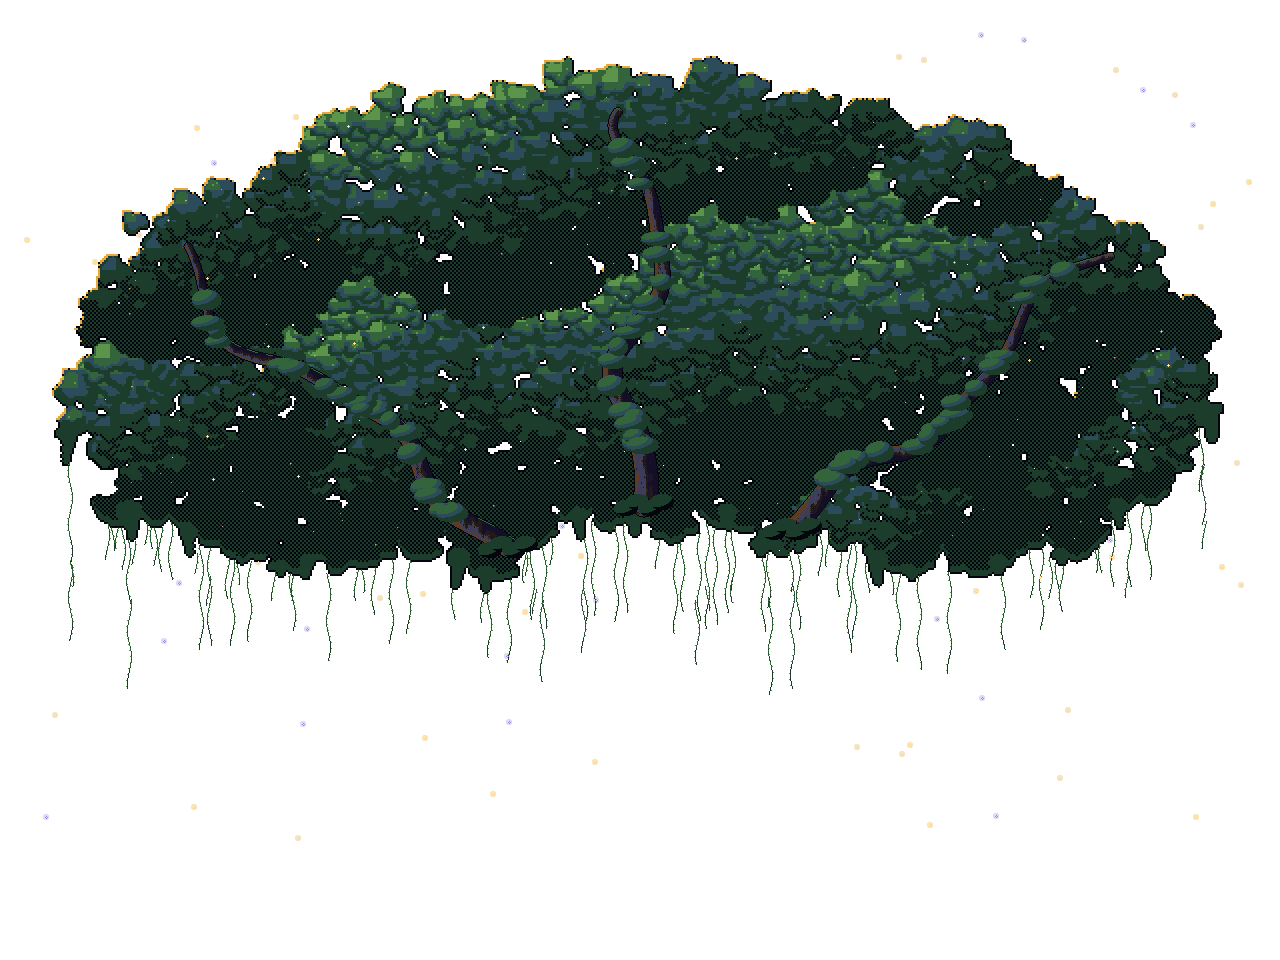
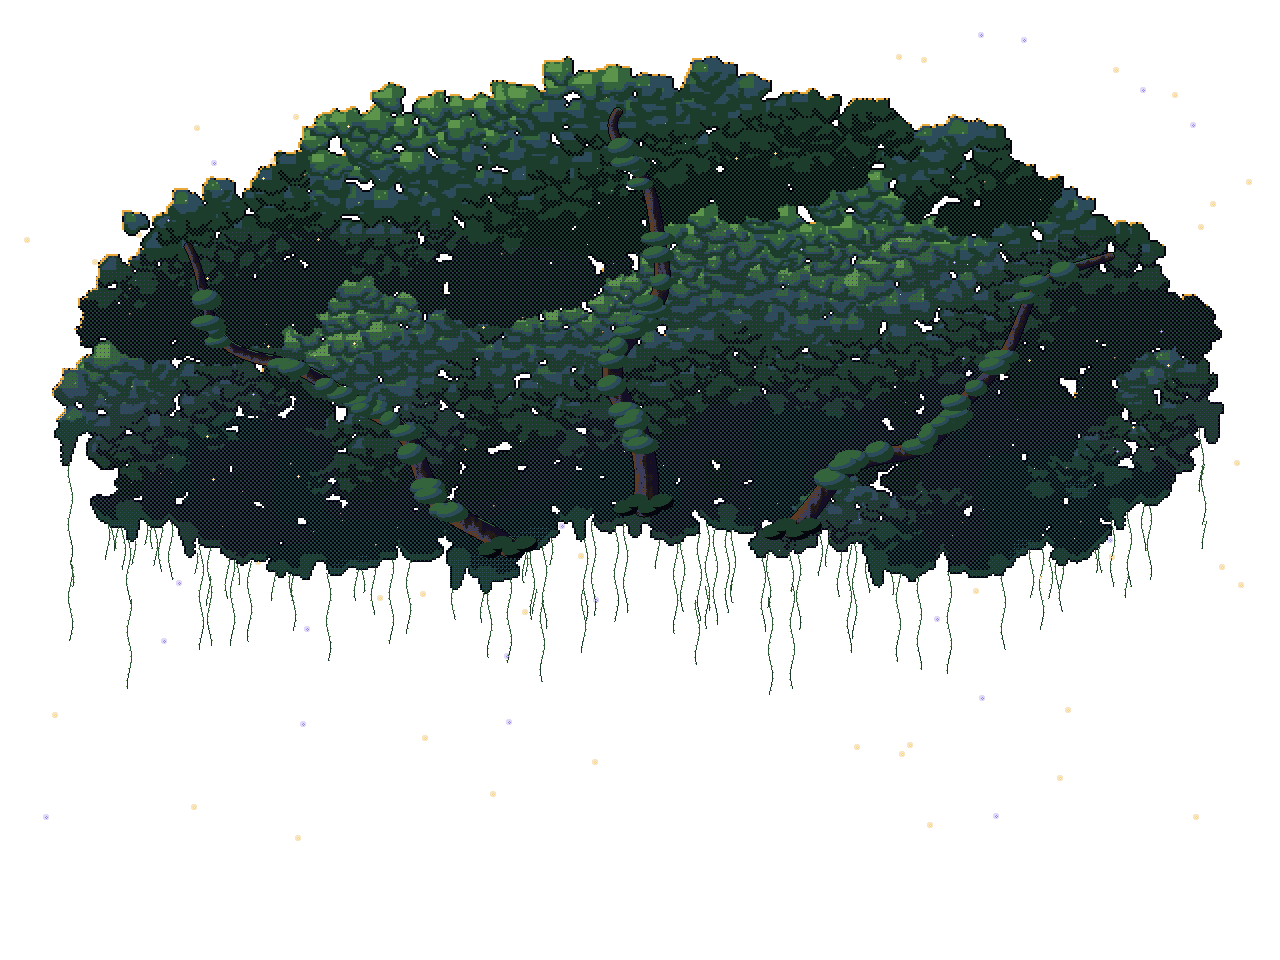
Memory Grove: a cool mist veil over the Heartwood
Sparse dithered Pool / Dusk over the crown (faint at the top) and the trunk (fading out before the roots and waystones; the Hollow kept clear), so the tree takes the fog's cool tone without going white.

diff --git a/Project_T/tools/meta_art/grove_gen.html b/Project_T/tools/meta_art/grove_gen.html
@@ -730,6 +730,12 @@ function groveTree() {
     if (n > .6) out.set(x, y, n > .72 ? HW.Moss : HW.Deepmoss);
     else if (n > .57 && hash(x, y, 97) < .5) out.set(x, y, HW.Leaf);
   }
+  // A cool veil of mist over the wood (the fog's teal and dusk, never white), thicker low down.
+  for (let y = 520; y < GH; y++) for (let x = 0; x < GW; x++) {
+    if (!out.alpha(x, y) || (x > 570 && x < 655 && y > 745 && y < 830)) continue;
+    const d = clamp((y - 520) / 300, 0, 1) * clamp((900 - y) / 60, 0, 1) * (.55 + pnoise(x, y, 50, 101) * .6);  // fades out before the roots and waystones
+    if (bay(x, y) < d * .24) out.set(x, y, d > .6 ? HW.Pool : HW.Dusk);
+  }
   return out;
 }
 
@@ -968,6 +974,12 @@ function groveCanopy(stage) {
   // Scale up 2× into the tree's space.
   const out = new Img(GW, GH);
   for (let y = 0; y < GH; y++) for (let x = 0; x < GW; x++) { const X = x / s | 0, Y = y / s | 0; if (small.alpha(X, Y)) out.set(x, y, small.get(X, Y)); }
+  // The same cool veil over the crown, faint at the top, a little thicker at its underside.
+  for (let y = 0; y < GH; y++) for (let x = 0; x < GW; x++) {
+    if (!out.alpha(x, y)) continue;
+    const d = clamp((y - 150) / 500, 0, 1) * (.5 + pnoise(x, y, 60, 102) * .6);
+    if (bay(x, y) < d * .22) out.set(x, y, d > .55 ? HW.Pool : HW.Dusk);
+  }
   // Long swamp-moss drapes hanging from the crown.
   for (let k = 0; k < 140; k++) {
     const x = 70 + hash(k, 1, 99) * 1140 | 0; let y = 600; while (y > 60 && !out.alpha(x, y)) y--;

diff --git a/Project_T/tools/meta_art/grove_tree.js b/Project_T/tools/meta_art/grove_tree.js
@@ -271,6 +271,12 @@ function groveTree() {
     if (n > .6) out.set(x, y, n > .72 ? HW.Moss : HW.Deepmoss);
     else if (n > .57 && hash(x, y, 97) < .5) out.set(x, y, HW.Leaf);
   }
+  // A cool veil of mist over the wood (the fog's teal and dusk, never white), thicker low down.
+  for (let y = 520; y < GH; y++) for (let x = 0; x < GW; x++) {
+    if (!out.alpha(x, y) || (x > 570 && x < 655 && y > 745 && y < 830)) continue;
+    const d = clamp((y - 520) / 300, 0, 1) * clamp((900 - y) / 60, 0, 1) * (.55 + pnoise(x, y, 50, 101) * .6);  // fades out before the roots and waystones
+    if (bay(x, y) < d * .24) out.set(x, y, d > .6 ? HW.Pool : HW.Dusk);
+  }
   return out;
 }
 
@@ -509,6 +515,12 @@ function groveCanopy(stage) {
   // Scale up 2× into the tree's space.
   const out = new Img(GW, GH);
   for (let y = 0; y < GH; y++) for (let x = 0; x < GW; x++) { const X = x / s | 0, Y = y / s | 0; if (small.alpha(X, Y)) out.set(x, y, small.get(X, Y)); }
+  // The same cool veil over the crown, faint at the top, a little thicker at its underside.
+  for (let y = 0; y < GH; y++) for (let x = 0; x < GW; x++) {
+    if (!out.alpha(x, y)) continue;
+    const d = clamp((y - 150) / 500, 0, 1) * (.5 + pnoise(x, y, 60, 102) * .6);
+    if (bay(x, y) < d * .22) out.set(x, y, d > .55 ? HW.Pool : HW.Dusk);
+  }
   // Long swamp-moss drapes hanging from the crown.
   for (let k = 0; k < 140; k++) {
     const x = 70 + hash(k, 1, 99) * 1140 | 0; let y = 600; while (y > 60 && !out.alpha(x, y)) y--;
